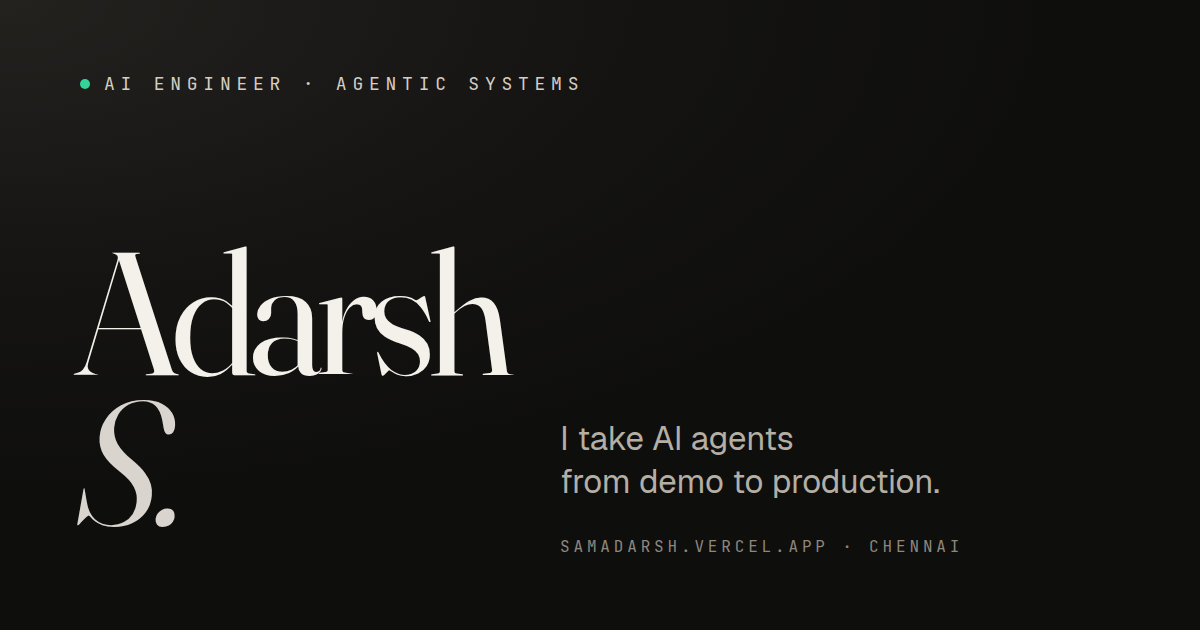
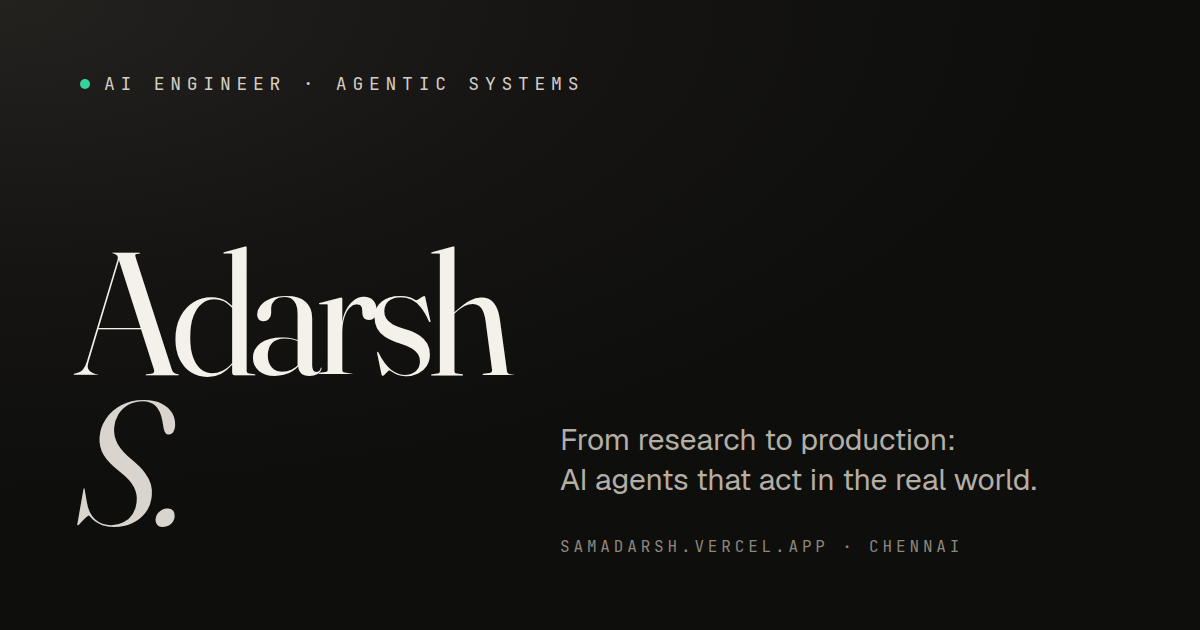
Hero tagline: "From research to production: AI agents that act in the real world."
Replaces "I take AI agents from demo to production." "Research" is true
of Adarsh alone (published papers, then agents in production at
Neeroma), and the second half says what the agents do.

- Tagline tokens rewritten for the next-token animation (research offers
  prototype, notebook and hackathon; act offers decide, ship and work)
- Home description, share-image alt text, JSON-LD description and
  llms.txt updated to match; share image regenerated

Claude-Session: https://claude.ai/code/session_01Y77CBm6AMjCSfuwbDRfdNZ

Changed region(s): [[0.4625, 0.6635, 0.8633, 0.7841]]

diff --git a/index.html b/index.html
@@ -6,7 +6,7 @@
     <meta name="viewport" content="width=device-width, initial-scale=1.0, viewport-fit=cover" />
     <meta
       name="description"
-      content="Adarsh S, AI engineer in Chennai, India. I take AI agents from demo to production: multi-agent platforms, retrieval with citations and speech AI, measured and shipped."
+      content="Adarsh S, AI engineer in Chennai, India. From research to production: AI agents that act in the real world, across multi-agent platforms, cited retrieval and speech AI."
     />
     <meta name="author" content="Adarsh S" />
     <meta name="theme-color" content="#110f0d" />
@@ -35,7 +35,7 @@
     <meta property="og:title" content="Adarsh S — AI Engineer, Agentic Systems" />
     <meta
       property="og:description"
-      content="Adarsh S, AI engineer in Chennai, India. I take AI agents from demo to production: multi-agent platforms, retrieval with citations and speech AI, measured and shipped."
+      content="Adarsh S, AI engineer in Chennai, India. From research to production: AI agents that act in the real world, across multi-agent platforms, cited retrieval and speech AI."
     />
     <meta property="og:url" content="https://samadarsh.vercel.app/" />
     <meta property="og:site_name" content="Adarsh S" />
@@ -44,13 +44,13 @@
     <meta property="og:image:type" content="image/png" />
     <meta property="og:image:width" content="1200" />
     <meta property="og:image:height" content="630" />
-    <meta property="og:image:alt" content="Adarsh S — AI Engineer · Agentic Systems. I take AI agents from demo to production." />
+    <meta property="og:image:alt" content="Adarsh S — AI Engineer · Agentic Systems. From research to production: AI agents that act in the real world." />
 
     <meta name="twitter:card" content="summary_large_image" />
     <meta name="twitter:title" content="Adarsh S — AI Engineer, Agentic Systems" />
     <meta
       name="twitter:description"
-      content="Adarsh S, AI engineer in Chennai, India. I take AI agents from demo to production: multi-agent platforms, retrieval with citations and speech AI, measured and shipped."
+      content="Adarsh S, AI engineer in Chennai, India. From research to production: AI agents that act in the real world, across multi-agent platforms, cited retrieval and speech AI."
     />
     <meta name="twitter:image" content="https://samadarsh.vercel.app/og/home.png" />
 
@@ -72,7 +72,7 @@
             "@id": "https://samadarsh.vercel.app/#person",
             "name": "Adarsh S",
             "jobTitle": "AI Engineer",
-            "description": "AI engineer building agentic systems, taking AI agents from demo to production.",
+            "description": "AI engineer building agentic systems, from research to production.",
             "url": "https://samadarsh.vercel.app/",
             "image": "https://samadarsh.vercel.app/og/home.png",
             "worksFor": {

diff --git a/src/data/tagline.ts b/src/data/tagline.ts
@@ -7,51 +7,19 @@ export type TaglineToken = { word: string; candidates: [string, number][] };
 
 export const taglineTokens: TaglineToken[] = [
   {
-    word: 'I',
+    word: 'From',
     candidates: [
-      ['I', 0.93],
-      ['We', 0.07],
+      ['From', 0.92],
+      ['Beyond', 0.08],
     ],
   },
   {
-    word: 'take',
+    word: 'research',
     candidates: [
-      ['take', 0.52],
-      ['ship', 0.21],
-      ['bring', 0.17],
-      ['move', 0.1],
-    ],
-  },
-  {
-    word: 'AI',
-    candidates: [
-      ['AI', 0.71],
-      ['LLM', 0.18],
-      ['autonomous', 0.11],
-    ],
-  },
-  {
-    word: 'agents',
-    candidates: [
-      ['agents', 0.67],
-      ['systems', 0.19],
-      ['products', 0.14],
-    ],
-  },
-  {
-    word: 'from',
-    candidates: [
-      ['from', 0.9],
-      ['out of', 0.1],
-    ],
-  },
-  {
-    word: 'demo',
-    candidates: [
-      ['demo', 0.48],
-      ['notebook', 0.27],
-      ['prototype', 0.19],
-      ['hackathon', 0.06],
+      ['research', 0.46],
+      ['prototype', 0.27],
+      ['notebook', 0.19],
+      ['hackathon', 0.08],
     ],
   },
   {
@@ -62,11 +30,73 @@ export const taglineTokens: TaglineToken[] = [
     ],
   },
   {
-    word: 'production.',
+    word: 'production:',
     candidates: [
-      ['production.', 0.69],
-      ['real users.', 0.2],
-      ['scale.', 0.11],
+      ['production:', 0.71],
+      ['scale:', 0.17],
+      ['users:', 0.12],
+    ],
+  },
+  {
+    word: 'AI',
+    candidates: [
+      ['AI', 0.72],
+      ['LLM', 0.17],
+      ['autonomous', 0.11],
+    ],
+  },
+  {
+    word: 'agents',
+    candidates: [
+      ['agents', 0.68],
+      ['systems', 0.2],
+      ['products', 0.12],
+    ],
+  },
+  {
+    word: 'that',
+    candidates: [
+      ['that', 0.9],
+      ['which', 0.1],
+    ],
+  },
+  {
+    word: 'act',
+    candidates: [
+      ['act', 0.55],
+      ['decide', 0.2],
+      ['ship', 0.15],
+      ['work', 0.1],
+    ],
+  },
+  {
+    word: 'in',
+    candidates: [
+      ['in', 0.93],
+      ['across', 0.07],
+    ],
+  },
+  {
+    word: 'the',
+    candidates: [
+      ['the', 0.97],
+      ['this', 0.03],
+    ],
+  },
+  {
+    word: 'real',
+    candidates: [
+      ['real', 0.84],
+      ['live', 0.1],
+      ['physical', 0.06],
+    ],
+  },
+  {
+    word: 'world.',
+    candidates: [
+      ['world.', 0.86],
+      ['economy.', 0.08],
+      ['market.', 0.06],
     ],
   },
 ];

diff --git a/src/data/seo.ts b/src/data/seo.ts
@@ -25,10 +25,10 @@ export const pages = {
     path: '/',
     title: null,
     description:
-      'Adarsh S, AI engineer in Chennai, India. I take AI agents from demo to production: multi-agent platforms, retrieval with citations and speech AI, measured and shipped.',
+      'Adarsh S, AI engineer in Chennai, India. From research to production: AI agents that act in the real world, across multi-agent platforms, cited retrieval and speech AI.',
     image: '/og/home.png',
     imageAlt:
-      'Adarsh S — AI Engineer · Agentic Systems. I take AI agents from demo to production.',
+      'Adarsh S — AI Engineer · Agentic Systems. From research to production: AI agents that act in the real world.',
   },
   work: {
     path: '/work',

diff --git a/src/data/snapshot.ts b/src/data/snapshot.ts
@@ -156,7 +156,7 @@ export function llmsTxt() {
   return [
     '# Adarsh S',
     '',
-    `> ${ROLE}, based in ${heroContent.location}. Builds agentic systems, retrieval with citations and speech AI, and takes them from demo to production with measured results.`,
+    `> ${ROLE}, based in ${heroContent.location}. Builds agentic systems, retrieval with citations and speech AI, and takes them from research to production with measured results.`,
     '',
     aboutNarrative.slice(0, 2).join(' '),
     '',

diff --git a/src/data/content.ts b/src/data/content.ts
@@ -83,7 +83,7 @@ export type SkillGroup = {
 
 export const heroContent = {
   eyebrow: 'AI Engineer · Agentic Systems',
-  tagline: 'I take AI agents from demo to production.',
+  tagline: 'From research to production: AI agents that act in the real world.',
   location: 'Chennai, India',
   available: true,
 };
